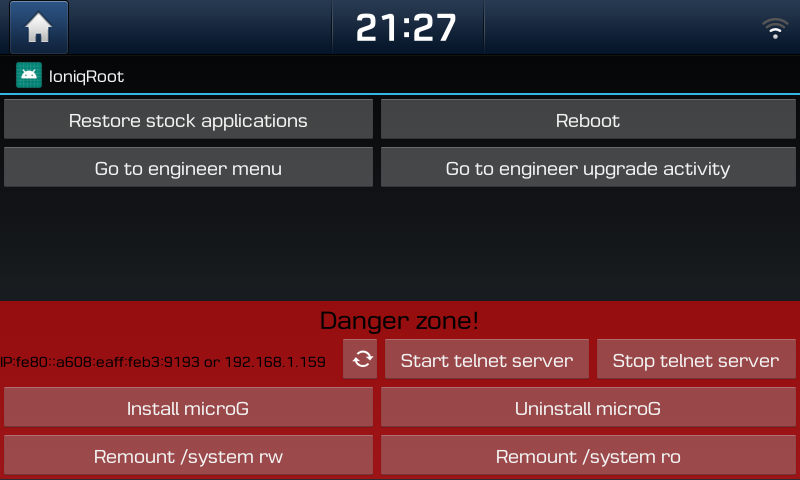
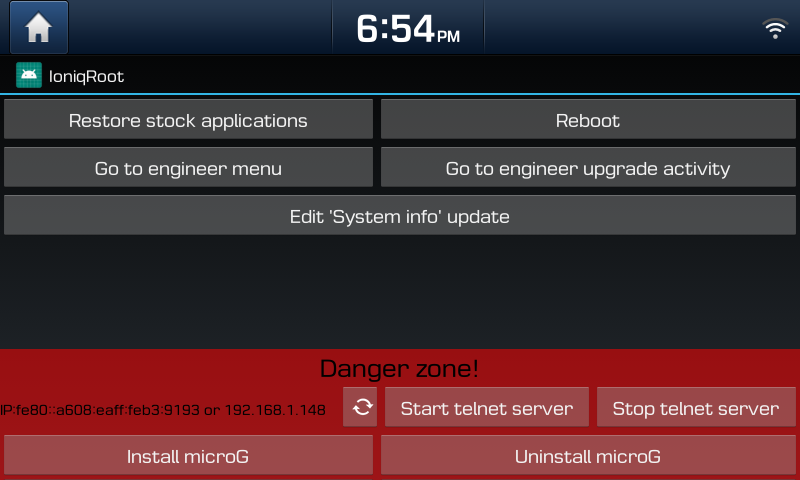
edit system info update

diff --git a/app/src/main/java/g4rb4g3/at/ioniqroot/MainActivity.java b/app/src/main/java/g4rb4g3/at/ioniqroot/MainActivity.java
@@ -2,6 +2,7 @@ package g4rb4g3.at.ioniqroot;
 
 import android.app.Activity;
 import android.app.AlertDialog;
+import android.app.DatePickerDialog;
 import android.app.ProgressDialog;
 import android.content.Context;
 import android.content.SharedPreferences;
@@ -9,6 +10,7 @@ import android.os.Bundle;
 import android.os.RemoteException;
 import android.util.Log;
 import android.view.View;
+import android.widget.Button;
 import android.widget.TextView;
 import android.widget.Toast;
 
@@ -53,6 +55,7 @@ public class MainActivity extends Activity implements View.OnClickListener {
     findViewById(R.id.btn_eng_upgrade_activity).setOnClickListener(this);
     findViewById(R.id.btn_eng_menu).setOnClickListener(this);
     findViewById(R.id.btn_refresh_ip).setOnClickListener(this);
+    findViewById(R.id.btn_edit_update_date).setOnClickListener(this);
 
     setIp();
   }
@@ -152,6 +155,38 @@ public class MainActivity extends Activity implements View.OnClickListener {
         break;
       case R.id.btn_refresh_ip:
         setIp();
+        break;
+      case R.id.btn_edit_update_date:
+        if (!"XX.EUR.SOP.00.191209".equals(getFwVersion())) {
+          Toast.makeText(this, getString(R.string.wrong_fw_version), Toast.LENGTH_LONG).show();
+          return;
+        }
+        try {
+          final String orgUpdate = ProcessExecutor.execute("getprop persist.sys.u.date");
+          String[] update = orgUpdate.split("\\.");
+          new DatePickerDialog(this,
+              (view, year, monthOfYear, dayOfMonth) -> {
+                if (!view.isShown()) {
+                  return;
+                }
+                String date = String.format(year + ".%02d.%02d", ++monthOfYear, dayOfMonth);
+                if(orgUpdate.equals(date)) {
+                  return;
+                }
+                try {
+                  ProcessExecutor.executeRootCommand("setprop persist.sys.u.date " + date);
+                  askReboot();
+                } catch (RemoteException e) {
+                  handleException(e);
+                }
+              },
+              Integer.valueOf(update[0]),
+              Integer.valueOf(update[1]) - 1,
+              Integer.valueOf(update[2]))
+              .show();
+        } catch (Exception e) {
+          handleException(e);
+        }
         break;
     }
   }

diff --git a/README.md b/README.md
@@ -14,6 +14,7 @@ Brings back stock Settings and Browser applications to your Hyundai Ioniq (28 kW
 * Restores stock Settings, Package installer and Browser applications
 * Allows you to enter full Engineering Mode
 * Go to password protected upgrade activity in Engineering Mode
+* Allows you to edit the update timestamp of Settings -> System info
 * DANGER ZONE:
 * Allows you to install microG
 * Opens root shell telnet server
